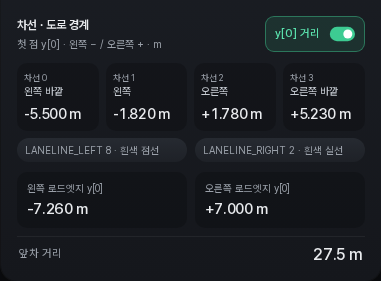
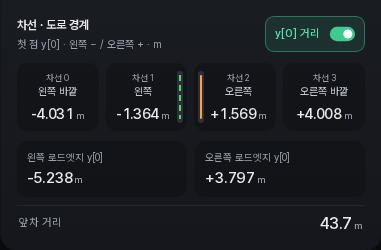
Release 1.3.12: lane values clear of the line samples, lanes/road docs captures with dark mode
The lane line sample sits 4..10 px inside the 차선 1 / 차선 2 cards and was sized for 100.0%; y[0] figures such as
-1.888 m reached it (overlap at 320/360 px, 0.6-2.3 px elsewhere). The sample's side keeps a 14 px inset and the panel's
lengths carry a small muted unit; info_panels checks a 4 px clearance with -15.555 at every width.

Docs: the boundaries-probability/-distance captures come from docs_video_shots.cjs (panel only, real logs; dark at the
night drive's 28 s where the lines are green dashed and orange solid) and the README's y[0] image has a dark source.

diff --git a/roadviewer/app/web/index.html b/roadviewer/app/web/index.html
@@ -1,5 +1,5 @@
 <!doctype html>
-<html lang="ko"><head><meta charset="utf-8"><meta name="color-scheme" content="dark light"><script src="../../assets/theme.js?v=1.3.11"></script><style>:where(html,body){background:#0C0D10;color-scheme:dark}@media(prefers-color-scheme:light){:where(html:not([data-theme=dark]),html:not([data-theme=dark]) body){background:#EEF0F3;color-scheme:light}}:where(html[data-theme=light],html[data-theme=light] body){background:#EEF0F3;color-scheme:light}</style><meta name="viewport" content="width=device-width,initial-scale=1"><title>Road Viewer · Home Assistant</title><link rel="stylesheet" href="../../assets/style.css?v=1.3.11"><link rel="stylesheet" href="../../assets/motion.css?v=1.3.11"><link rel="expect" href="#rvReady" blocking="render"><link rel="icon" type="image/svg+xml" href="../../assets/icon.svg?v=1.3.11"></head>
+<html lang="ko"><head><meta charset="utf-8"><meta name="color-scheme" content="dark light"><script src="../../assets/theme.js?v=1.3.12"></script><style>:where(html,body){background:#0C0D10;color-scheme:dark}@media(prefers-color-scheme:light){:where(html:not([data-theme=dark]),html:not([data-theme=dark]) body){background:#EEF0F3;color-scheme:light}}:where(html[data-theme=light],html[data-theme=light] body){background:#EEF0F3;color-scheme:light}</style><meta name="viewport" content="width=device-width,initial-scale=1"><title>Road Viewer · Home Assistant</title><link rel="stylesheet" href="../../assets/style.css?v=1.3.12"><link rel="stylesheet" href="../../assets/motion.css?v=1.3.12"><link rel="expect" href="#rvReady" blocking="render"><link rel="icon" type="image/svg+xml" href="../../assets/icon.svg?v=1.3.12"></head>
 <body class="replay-page replay-loading">
 <header class="app-bar"><div class="app-bar-inner">
 <a class="back" href="../../" data-ripple-now aria-label="로그 목록" title="로그 목록"><svg viewBox="0 0 24 24" width="18" height="18" fill="none" stroke="currentColor" stroke-width="2" stroke-linecap="round" stroke-linejoin="round" aria-hidden="true"><path d="M15 5 8 12l7 7"/></svg><span class="back-label">로그</span></a>
@@ -9,7 +9,7 @@
 
 <button id="pinLog" class="icon-button" type="button" data-no-ripple data-fill title="구간 고정" aria-label="구간 고정" aria-pressed="false" disabled><svg viewBox="0 0 24 24" width="18" height="18" fill="none" stroke="currentColor" stroke-width="1.7" stroke-linecap="round" stroke-linejoin="round" aria-hidden="true"><path class="pin-head" d="M8 3h8l-1 7 4 4v2H5v-2l4-4z"/><path d="M12 16v6"/></svg></button>
 <details id="viewMenu" class="replay-menu view-menu"><summary data-no-ripple data-fill title="보기"><svg viewBox="0 0 24 24" width="16" height="16" fill="none" stroke="currentColor" stroke-width="1.8" aria-hidden="true"><rect x="3" y="4" width="18" height="16" rx="2"/><path d="M14 4v16"/></svg><span>보기</span></summary><div id="viewMenuPanel" class="replay-download-menu replay-menu-panel"><div id="viewOptions" class="menu-view" role="group" aria-label="보기"><span class="menu-section">보기</span><button id="splitView" class="menu-toggle" type="button" aria-pressed="false" aria-controls="replayViews"><svg viewBox="0 0 24 24" width="18" height="18" aria-hidden="true"><rect x="3" y="5" width="18" height="14" rx="3"/><path d="M12 5v14"/></svg><span>좌우 분할</span><span class="toggle-track" aria-hidden="true"></span></button><button id="stackView" class="menu-toggle" type="button" aria-pressed="false" aria-controls="replayViews"><svg viewBox="0 0 24 24" width="18" height="18" aria-hidden="true"><rect x="3" y="5" width="18" height="14" rx="3"/><path d="M3 12h18"/></svg><span>상하 분리</span><span class="toggle-track" aria-hidden="true"></span></button><button id="layoutWidthButton" class="menu-toggle" type="button" aria-haspopup="dialog" aria-controls="layoutWidthDialog"><svg viewBox="0 0 24 24" width="18" height="18" aria-hidden="true"><path d="M3 12h18M7 8l-4 4 4 4M17 8l4 4-4 4"/></svg><span>화면 폭…</span></button><span class="menu-section menu-section-play">재생</span><button id="autoNext" class="menu-toggle" type="button" aria-pressed="false" title="구간이 끝나면 같은 주행의 다음 재생 가능한 구간을 이어서 재생합니다."><svg viewBox="0 0 24 24" width="18" height="18" aria-hidden="true"><path d="M5 6.5v11l8.5-5.5z"/><path d="M13.5 6.5v11l5.5-5.5z"/></svg><span>끝나면 다음 구간 재생</span><span class="toggle-track" aria-hidden="true"></span></button><button id="pauseOnJump" class="menu-toggle" type="button" aria-pressed="true" title="재생 중에 다른 구간으로 옮기면 멈춥니다. 끄면 옮긴 구간에서 이어서 재생합니다."><svg viewBox="0 0 24 24" width="18" height="18" aria-hidden="true"><path d="M9 6v12M15 6v12"/></svg><span>구간을 옮기면 일시정지</span><span class="toggle-track" aria-hidden="true"></span></button></div></div></details>
-<details id="replayDownload" class="replay-download replay-menu"><summary data-no-ripple data-fill title="추가 작업" aria-label="추가 작업"><svg class="icon-more" viewBox="0 0 24 24" width="18" height="18" aria-hidden="true"><circle class="more-dot more-dot-l" cx="5" cy="12" r="1.8"/><circle class="more-dot" cx="12" cy="12" r="1.8"/><circle class="more-dot more-dot-r" cx="19" cy="12" r="1.8"/><g class="more-x"><line x1="12" y1="12" x2="4.15" y2="4.15" pathLength="1"/><line x1="12" y1="12" x2="19.85" y2="19.85" pathLength="1"/><line x1="12" y1="12" x2="19.85" y2="4.15" pathLength="1"/><line x1="12" y1="12" x2="4.15" y2="19.85" pathLength="1"/></g></svg></summary><div id="replayDownloadMenu" class="replay-download-menu"><button id="cameraInfoButton" type="button" aria-haspopup="dialog" aria-controls="cameraInfoDialog">카메라 설치 정보</button><p id="details" class="menu-info">—</p><p class="menu-info menu-version">Road Viewer <span class="app-version">v1.3.11</span></p></div></details>
+<details id="replayDownload" class="replay-download replay-menu"><summary data-no-ripple data-fill title="추가 작업" aria-label="추가 작업"><svg class="icon-more" viewBox="0 0 24 24" width="18" height="18" aria-hidden="true"><circle class="more-dot more-dot-l" cx="5" cy="12" r="1.8"/><circle class="more-dot" cx="12" cy="12" r="1.8"/><circle class="more-dot more-dot-r" cx="19" cy="12" r="1.8"/><g class="more-x"><line x1="12" y1="12" x2="4.15" y2="4.15" pathLength="1"/><line x1="12" y1="12" x2="19.85" y2="19.85" pathLength="1"/><line x1="12" y1="12" x2="19.85" y2="4.15" pathLength="1"/><line x1="12" y1="12" x2="4.15" y2="19.85" pathLength="1"/></g></svg></summary><div id="replayDownloadMenu" class="replay-download-menu"><button id="cameraInfoButton" type="button" aria-haspopup="dialog" aria-controls="cameraInfoDialog">카메라 설치 정보</button><p id="details" class="menu-info">—</p><p class="menu-info menu-version">Road Viewer <span class="app-version">v1.3.12</span></p></div></details>
 </nav>
 </div></header>
 <main>
@@ -71,4 +71,4 @@
 <section class="overlay-settings-section"><h3>도로와 경로</h3><div class="set-list"><label title="계기판 송신값의 거리선·깜빡이·차로 강조"><input id="ccncRoad" type="checkbox" checked>계기판 도로 표시</label><label title="계기판으로 보낸 LANELINE_LEFT·RIGHT 값대로 자기 차로 좌우 차선을 표시합니다. 흰색·주황·녹색·회색과 실선·점선, 숨김(흐린 점선)을 구분하며, 송신값이 없거나 문서화되지 않은 값이면 기본 차선 표시를 씁니다."><input id="laneMarking" type="checkbox" checked>계기판 차선 색·종류</label><label title="오픈파일럿이 계기판으로 보낸 차간 거리 설정(1~4단계)을 영상 왼쪽 아래에 4칸으로 표시합니다. 이 값이 없는 로그(예전에 변환한 로그)에서는 표시하지 않습니다."><input id="gapLevel" type="checkbox" checked>차간 거리 단계</label><div class="minimap-tone lead-mark" title="계기판 TARGET 거리(앞차거리)를 경로 위에 직선 또는 앞차를 감싸는 호로 그립니다. 끄면 감속 빛도 그리지 않습니다."><span id="leadMarkLabel">앞차거리</span><div id="leadMark" class="view-switch view-switch-3" role="group" aria-labelledby="leadMarkLabel"><button type="button" data-mark="off" aria-pressed="false">끄기</button><button type="button" data-mark="line" aria-pressed="false">선</button><button type="button" data-mark="arc" aria-pressed="true">호</button></div></div><label title="플래너가 목표로 하는 차간 거리(longitudinalPlan.desiredDistance)를 앞차거리와 함께 경로 양옆의 주황 빛으로 표시합니다. 앞차가 목표의 85%보다 가까우면 대신 앞차거리가 빨갛게 바뀝니다. 예전에 변환한 로그에는 값이 없습니다."><input id="gapTarget" type="checkbox" checked>목표 차간 거리</label><label title="TARGET 거리선은 유지하고 라벨만 표시하거나 숨깁니다."><input id="targetLabels" type="checkbox" checked>TARGET 라벨</label><label class="box-opacity" for="modelPathWidth">경로 차폭 <input id="modelPathWidth" type="range" min="100" max="300" step="1" value="186"><output id="modelPathWidthValue" for="modelPathWidth">1.86 m</output><button id="modelPathWidthReset" title="기본값 1.86 m" aria-label="기본값 1.86 m" class="slider-reset" type="button">기본값 1.86 m</button></label></div><p class="camera-info-note sec-help">실제 차로와 모델 경로·TARGET 거리선을 구분해 표시합니다.</p></section>
 <section class="overlay-settings-section"><h3>사각지대 · BSD</h3><div class="set-list"><label><input id="bsdWalls" type="checkbox" checked>사각지대 벽 표시</label><label title="사각지대 벽은 유지하고 라벨만 표시하거나 숨깁니다."><input id="bsdLabels" type="checkbox" checked>BSD 라벨</label><label class="box-opacity" for="bsdHeight">벽 높이 <input id="bsdHeight" type="range" min="0" max="300" step="5" value="80"><output id="bsdHeightValue" for="bsdHeight">0.80 m</output><button id="bsdHeightReset" title="기본값 0.80 m" aria-label="기본값 0.80 m" class="slider-reset" type="button">기본값 0.80 m</button></label></div><p class="camera-info-note sec-help">사각지대 감지 신호를 좌우 벽으로 표시합니다. 길이는 40 m로 고정입니다.</p></section>
 <section class="overlay-settings-section"><h3>차량 위치 표식</h3><div class="set-list"><button id="overlayHeight" title="설정한 높이로 차량 위치 표식을 올리고 바닥까지 연결합니다." class="view-toggle" type="button" aria-pressed="true"><span>차량 높이 조정</span><span class="toggle-track" aria-hidden="true"></span></button><div class="layout-width"><label for="overlayHeightRange">지면에서 올릴 높이</label><output id="overlayHeightValue" for="overlayHeightRange"></output><input id="overlayHeightRange" type="range" min="0" max="200" step="1" value="60" aria-describedby="overlayHeightHelp"><div class="layout-width-limits"><span>0 cm</span><span>200 cm</span></div><button id="overlayHeightReset" title="기본값 60 cm" aria-label="기본값 60 cm" type="button">기본값 60 cm</button></div></div><p id="overlayHeightHelp" class="camera-info-note sec-help">모델 경로·차선·로드엣지에 적용됩니다. 3D 박스에는 적용되지 않습니다.</p></section><section class="overlay-settings-section"><h3>지도</h3><div class="set-list"><label title="영상이 있는 구간에서 영상 오른쪽 위, 속도와 조향 표시 아래에 현재 구간의 경로를 작은 지도로 표시합니다."><input id="videoMiniMap" type="checkbox" aria-describedby="videoMiniMapHelp">영상 위 작은 지도</label><div class="minimap-tone sub"><span id="videoMiniMapToneLabel">작은 지도 색상</span><div id="videoMiniMapTone" class="view-switch view-switch-3" role="group" aria-labelledby="videoMiniMapToneLabel"><button type="button" data-tone="auto" aria-pressed="true">자동</button><button type="button" data-tone="light" aria-pressed="false">라이트</button><button type="button" data-tone="dark" aria-pressed="false">다크</button></div></div><label class="sub" title="작은 지도에서 지명·도로 이름·아이콘·화살표를 숨깁니다. 지도 색은 그대로입니다."><input id="videoMiniMapPlain" type="checkbox">작은 지도 글자 숨기기</label><label class="sub" title="작은 지도를 차분한 회색 지도로 바꾸고 3D 건물·아이콘을 뺍니다."><input id="videoMiniMapGrey" type="checkbox">작은 지도 회색으로</label></div><p id="videoMiniMapHelp" class="camera-info-note sec-help">GPS 경로와 영상이 있는 구간에서 표시하고, 누르면 커집니다.</p></section></div></dialog>
-<script src="../../assets/disclosure.js?v=1.3.11"></script><script src="../../assets/element-motion.js?v=1.3.11"></script><script src="../../assets/ripple.js?v=1.3.11"></script><script src="../../assets/recording-name.js?v=1.3.11"></script><script src="../../assets/download-dialog.js?v=1.3.11"></script><script src="../../assets/tags.js?v=1.3.11"></script><script src="../../assets/app.js?v=1.3.11"></script><script src="../../assets/choices.js?v=1.3.11"></script><script src="../../assets/video-overlay.js?v=1.3.11"></script><script src="../../assets/camera-info.js?v=1.3.11"></script><script src="../../assets/telemetry.js?v=1.3.11"></script><script src="../../assets/bookmarks.js?v=1.3.11"></script><script src="../../assets/maps.js?v=1.3.11"></script><span id="rvReady" hidden></span></body></html>
+<script src="../../assets/disclosure.js?v=1.3.12"></script><script src="../../assets/element-motion.js?v=1.3.12"></script><script src="../../assets/ripple.js?v=1.3.12"></script><script src="../../assets/recording-name.js?v=1.3.12"></script><script src="../../assets/download-dialog.js?v=1.3.12"></script><script src="../../assets/tags.js?v=1.3.12"></script><script src="../../assets/app.js?v=1.3.12"></script><script src="../../assets/choices.js?v=1.3.12"></script><script src="../../assets/video-overlay.js?v=1.3.12"></script><script src="../../assets/camera-info.js?v=1.3.12"></script><script src="../../assets/telemetry.js?v=1.3.12"></script><script src="../../assets/bookmarks.js?v=1.3.12"></script><script src="../../assets/maps.js?v=1.3.12"></script><span id="rvReady" hidden></span></body></html>

diff --git a/roadviewer/app/web/library.html b/roadviewer/app/web/library.html
@@ -1,5 +1,5 @@
-<!doctype html><html lang="ko"><head><meta charset="utf-8"><meta name="color-scheme" content="dark light"><script src="assets/theme.js?v=1.3.11"></script><style>:where(html,body){background:#0C0D10;color-scheme:dark}@media(prefers-color-scheme:light){:where(html:not([data-theme=dark]),html:not([data-theme=dark]) body){background:#EEF0F3;color-scheme:light}}:where(html[data-theme=light],html[data-theme=light] body){background:#EEF0F3;color-scheme:light}</style><meta name="viewport" content="width=device-width,initial-scale=1"><title>Road Viewer · Home Assistant</title><link rel="stylesheet" href="assets/style.css?v=1.3.11"><link rel="stylesheet" href="assets/library.css?v=1.3.11"><link rel="stylesheet" href="assets/motion.css?v=1.3.11"><link rel="icon" type="image/svg+xml" href="assets/icon.svg?v=1.3.11"></head><body class="library-page">
-<header class="lib-appbar"><div class="lib-appbar-inner"><div class="app-brand"><img class="app-icon" src="assets/icon.svg?v=1.3.11" alt=""><h1>Road Viewer</h1></div>
+<!doctype html><html lang="ko"><head><meta charset="utf-8"><meta name="color-scheme" content="dark light"><script src="assets/theme.js?v=1.3.12"></script><style>:where(html,body){background:#0C0D10;color-scheme:dark}@media(prefers-color-scheme:light){:where(html:not([data-theme=dark]),html:not([data-theme=dark]) body){background:#EEF0F3;color-scheme:light}}:where(html[data-theme=light],html[data-theme=light] body){background:#EEF0F3;color-scheme:light}</style><meta name="viewport" content="width=device-width,initial-scale=1"><title>Road Viewer · Home Assistant</title><link rel="stylesheet" href="assets/style.css?v=1.3.12"><link rel="stylesheet" href="assets/library.css?v=1.3.12"><link rel="stylesheet" href="assets/motion.css?v=1.3.12"><link rel="icon" type="image/svg+xml" href="assets/icon.svg?v=1.3.12"></head><body class="library-page">
+<header class="lib-appbar"><div class="lib-appbar-inner"><div class="app-brand"><img class="app-icon" src="assets/icon.svg?v=1.3.12" alt=""><h1>Road Viewer</h1></div>
 <nav class="lib-tabs" role="tablist" aria-label="주요 화면"><button id="tab-logs" class="lib-tab" role="tab" type="button" data-tab="logs" aria-controls="panel-logs" aria-selected="true"><svg width="22" height="22" viewBox="0 0 24 24" fill="none" stroke="currentColor" stroke-width="2" stroke-linecap="round" stroke-linejoin="round" aria-hidden="true"><rect x="3" y="5" width="18" height="14" rx="3"/><path d="m10 9 5 3-5 3Z"/></svg><span>로그</span></button><button id="tab-upload" class="lib-tab" role="tab" type="button" data-tab="upload" aria-controls="panel-upload" aria-selected="false" tabindex="-1"><svg width="22" height="22" viewBox="0 0 24 24" fill="none" stroke="currentColor" stroke-width="2" stroke-linecap="round" stroke-linejoin="round" aria-hidden="true"><path d="M12 16V4M7 9l5-5 5 5M4 20h16"/></svg><span>업로드</span></button><button id="tab-storage" class="lib-tab" role="tab" type="button" data-tab="storage" aria-controls="storageSettings" aria-selected="false" tabindex="-1"><svg width="22" height="22" viewBox="0 0 24 24" fill="none" stroke="currentColor" stroke-width="2" stroke-linecap="round" stroke-linejoin="round" aria-hidden="true"><ellipse cx="12" cy="6" rx="8" ry="3"/><path d="M4 6v12c0 1.7 3.6 3 8 3s8-1.3 8-3V6M4 12c0 1.7 3.6 3 8 3s8-1.3 8-3"/></svg><span>저장공간</span></button><button id="tab-devices" class="lib-tab" role="tab" type="button" data-tab="devices" aria-controls="deviceSettings" aria-selected="false" tabindex="-1"><svg width="22" height="22" viewBox="0 0 24 24" fill="none" stroke="currentColor" stroke-width="2" stroke-linecap="round" stroke-linejoin="round" aria-hidden="true"><rect x="6" y="2" width="12" height="20" rx="2.5"/><path d="M11 18h2"/></svg><span>장치</span></button><button id="tab-settings" class="lib-tab" role="tab" type="button" data-tab="settings" aria-controls="panel-settings" aria-selected="false" tabindex="-1"><svg width="22" height="22" viewBox="0 0 24 24" fill="none" stroke="currentColor" stroke-width="2" stroke-linecap="round" stroke-linejoin="round" aria-hidden="true"><circle cx="12" cy="12" r="3"/><path d="M12 2v3M12 19v3M2 12h3M19 12h3M4.9 4.9l2.1 2.1M17 17l2.1 2.1M4.9 19.1 7 17M17 7l2.1-2.1"/></svg><span>설정</span></button></nav>
 <div class="lib-status"><button id="uploadPill" class="upload-pill glass-panel" type="button" data-goto-tab="upload" hidden><span class="upload-pill-ring" aria-hidden="true"></span><span id="uploadPillText">업로드 중</span></button><button id="summary" class="lib-meter" type="button" data-goto-tab="storage" title="Road Viewer 원본·변환·업로드 임시 파일의 총 파일 용량" aria-label="로컬 저장공간 확인 중"><span class="lib-meter-label" aria-hidden="true">로컬</span><span class="lib-meter-bar" aria-hidden="true"><span id="headerMeterFill"></span></span><span id="headerStorageText" aria-hidden="true">—</span></button><span id="headerArchive" class="lib-archive" hidden><i aria-hidden="true"></i><span id="headerArchiveText"></span></span></div></div></header>
 <main>
@@ -125,7 +125,7 @@
 <div class="usage-guide-body"><div><h4>처리 상태</h4><dl class="status-guide"><div><dt>미변환</dt><dd>로그와 보관 영상을 유지한 상태입니다. 변환하면 재생할 수 있습니다.</dd></div><div><dt>대기 중</dt><dd>변환 순서를 기다립니다.</dd></div><div><dt>처리 중</dt><dd>로그 분석 또는 영상 변환을 진행합니다.</dd></div><div><dt>재생 가능</dt><dd>변환이 완료되어 재생할 수 있습니다.</dd></div><div><dt>변환 실패</dt><dd>변환 버튼으로 다시 시도할 수 있습니다.</dd></div></dl></div><div><h4>로그 작업</h4><p class="action-guide">재생·변환 버튼 옆 펼침 메뉴(⌄)에서 선택합니다. 미변환 항목에는 제거가 표시되지 않으며, 처리 중에는 제거할 수 없습니다.</p><dl class="action-guide-grid"><div><dt>변환</dt><dd>재생용 데이터를 생성합니다.</dd></div><div><dt>제거</dt><dd>대기 중인 항목은 변환 예약을 취소합니다. 분석·그래프와 원본으로 다시 만들 수 있는 MP4를 삭제하며, 원본 로그·영상 및 원본 없이 보관하는 MP4는 유지합니다.</dd></div><div><dt>다운로드</dt><dd>팝업에서 로그와 카메라 영상, MP4·원본 형식(HEVC·TS)을 골라 받습니다. 선택한 파일이 하나면 그대로, 여러 개면 ZIP으로 받고, 각 파일 옆의 받기로도 개별 다운로드할 수 있습니다. 없는 카메라는 제외합니다. 원본 형식은 재압축 없이 다시 만들며 화질은 같지만 업로드한 파일과 바이트까지 같지는 않습니다.</dd></div><div><dt>완전 삭제</dt><dd>원본과 변환 데이터를 모두 삭제합니다.</dd></div></dl><p class="action-guide">수동으로 제거한 항목은 자동으로 다시 변환되지 않습니다. 재시작 후에도 직접 변환해야 합니다.</p></div>
 <div class="guide-notes"><div><h4>로그 이름과 복사</h4><p>첫 식별자의 앞자리 0과 뒤쪽 식별자를 생략해 짧게 표시합니다. <code>00000395--0d0eda17c5--7</code>은 <code>395 / 구간 7</code>로 보입니다. 이름 옆 복사 버튼은 생략하지 않은 전체 이름을 확장자 없이 복사합니다.</p></div><div><h4>구간 고정</h4><p>재생·변환 옆 핀 아이콘은 해당 구간만 자동 삭제에서 보호합니다. 다시 누르면 해제하며, 재시작 후에도 유지됩니다. 이후 업로드한 다른 구간에는 적용되지 않습니다. <b>일괄 제거·완전 삭제는 기본적으로 고정한 구간을 제외합니다. 로그 관리에서 ‘고정 항목도 삭제’를 켜면 포함됩니다.</b> 개별 로그 메뉴에서는 직접 제거·완전 삭제할 수 있습니다.</p><p>기존 주행 단위 고정은 저장된 각 구간의 고정으로 이전됩니다.</p></div></div>
 </div></details>
-<p class="app-version-line">Road Viewer <span class="app-version">v1.3.11</span> · Home Assistant 애드온</p>
+<p class="app-version-line">Road Viewer <span class="app-version">v1.3.12</span> · Home Assistant 애드온</p>
 </section>
 <footer>Home Assistant 연결을 통해 접근합니다. 업로드한 원본과 변환 데이터는 앱 저장소에 보관됩니다.</footer></main>
 <dialog id="archiveAllDialog" class="archive-all-dialog" aria-labelledby="archiveAllTitle" aria-describedby="archiveAllDescription">
@@ -147,4 +147,4 @@
 </div>
 <div class="pair-footer"><button id="pairRenew" type="button"><svg width="16" height="16" viewBox="0 0 24 24" fill="none" stroke="currentColor" stroke-width="2" stroke-linecap="round" stroke-linejoin="round" aria-hidden="true"><path d="M19.79 16.5A9 9 0 1 1 12 3c2.52 0 4.93 1 6.74 2.74L21 8"/><path d="M21 3v5h-5"/></svg><span>새 코드 발급</span></button><button id="pairClose" type="button">취소</button></div>
 </dialog>
-<script src="assets/disclosure.js?v=1.3.11"></script><script src="assets/element-motion.js?v=1.3.11"></script><script src="assets/ripple.js?v=1.3.11"></script><script src="assets/recording-name.js?v=1.3.11"></script><script src="assets/download-dialog.js?v=1.3.11"></script><script src="assets/tags.js?v=1.3.11"></script><script src="assets/library.js?v=1.3.11"></script><script src="assets/choices.js?v=1.3.11"></script><script src="assets/bulk.js?v=1.3.11"></script><script src="assets/storage-devices.js?v=1.3.11"></script><script src="assets/log-transfer.js?v=1.3.11"></script><script src="assets/maps.js?v=1.3.11"></script></body></html>
+<script src="assets/disclosure.js?v=1.3.12"></script><script src="assets/element-motion.js?v=1.3.12"></script><script src="assets/ripple.js?v=1.3.12"></script><script src="assets/recording-name.js?v=1.3.12"></script><script src="assets/download-dialog.js?v=1.3.12"></script><script src="assets/tags.js?v=1.3.12"></script><script src="assets/library.js?v=1.3.12"></script><script src="assets/choices.js?v=1.3.12"></script><script src="assets/bulk.js?v=1.3.12"></script><script src="assets/storage-devices.js?v=1.3.12"></script><script src="assets/log-transfer.js?v=1.3.12"></script><script src="assets/maps.js?v=1.3.12"></script></body></html>

diff --git a/roadviewer/app/web/style.css b/roadviewer/app/web/style.css
@@ -1,4 +1,4 @@
-@font-face{font-family:"Pretendard Variable";src:url("fonts/PretendardVariable-1.3.9.woff2?v=1.3.11") format("woff2");font-style:normal;font-weight:45 920;font-display:swap}
+@font-face{font-family:"Pretendard Variable";src:url("fonts/PretendardVariable-1.3.9.woff2?v=1.3.12") format("woff2");font-style:normal;font-weight:45 920;font-display:swap}
 /* Style A tokens: dark by default; light by the 화면 모드 setting (theme.js sets data-theme) or the system preference. */
 :root{color-scheme:dark;--bg:#0C0D10;--page:radial-gradient(120% 60% at 50% 0%,#171A20 0%,#0C0D10 55%);--text:#E9EBEE;--text-2:#C5CAD1;--muted:#9AA0A9;--line:rgba(255,255,255,.06);--line-strong:rgba(255,255,255,.12);--surface:linear-gradient(180deg,#1A1D23 0%,#15171C 100%);--surface-shadow:inset 0 1px 0 rgba(255,255,255,.06),0 0 0 1px rgba(255,255,255,.04),0 12px 32px rgba(0,0,0,.45);--surface-outline:0 0 0 1px rgba(255,255,255,.04),0 12px 32px rgba(0,0,0,.45);--surface-highlight:inset 0 1px 0 rgba(255,255,255,.06);--panel:#17191E;--raised:linear-gradient(180deg,#262A31,#1E2127);--raised-hover:linear-gradient(180deg,#2D3139,#23262D);--raised-shadow:inset 0 1px 0 rgba(255,255,255,.08),0 0 0 1px rgba(0,0,0,.5),0 2px 6px rgba(0,0,0,.4);--control-line:transparent;--track:#111317;--track-shadow:inset 0 1px 3px rgba(0,0,0,.6),0 0 0 1px rgba(255,255,255,.04);--well:rgba(0,0,0,.2);--fold-shade:rgba(0,0,0,.6);--fold-edge:rgba(255,255,255,.05);--hover:rgba(255,255,255,.05);--field:#111317;--field-shadow:inset 0 1px 3px rgba(0,0,0,.6),0 0 0 1px rgba(255,255,255,.05);--pop:#1B1E24;--pop-shadow:inset 0 1px 0 rgba(255,255,255,.06),0 0 0 1px rgba(255,255,255,.07),0 18px 50px rgba(0,0,0,.55);--backdrop:rgba(4,5,7,.62);--accent:#3DCB92;--accent-text:#5BE3AE;--tab-on:#5BE3AE;--tab-on-icon:#5BE3AE;--accent-glow:0 0 8px rgba(61,203,146,.6);--accent-soft:rgba(61,203,146,.13);--accent-line:rgba(61,203,146,.45);--primary-bg:linear-gradient(180deg,#66E8B5,#3DCB92);--primary-text:#04241A;--primary-shadow:inset 0 1px 0 rgba(255,255,255,.45),0 0 0 1px rgba(61,203,146,.6),0 6px 18px rgba(61,203,146,.26);--warn:#F5C451;--warn-soft:rgba(245,196,81,.12);--danger:#FF7A6B;--danger-soft:rgba(255,122,107,.12);--takeover:#FF9F5A;--drive:#7FB4FF;--nas:#B79CFF;--unconverted:#4A4F58;--ready:#3DCB92;--warn-text:#F5C451;--warn-edge:none;--danger-text:#FF7A6B;--takeover-text:#FF9F5A;--drive-text:#7FB4FF;--nas-text:#B79CFF;--pin:#F5C451;--pin-soft:rgba(245,196,81,.12);--switch-off:#3A3F48;--header-bg:rgba(14,15,18,.78);--chart-grid:rgba(255,255,255,.04);--canvas-bg:#0f1115;--chart-1:#57d9b0;--chart-2:#bda0ff;--chart-3:#ffac70;--chart-4:#78c7ff;--map-grid:rgba(255,255,255,.035);--map-asphalt:rgba(180,193,207,.085);--map-label:#20252C;--map-text:#9AA0A9;--map-rear:rgba(255,255,255,.035);--map-axis:#6B717B;--map-guide:#6B717B;--map-ego:#E9EBEE;--map-warn:#F5C451;--map-lane:#57d9b0;--map-lane-fill:rgba(87,217,176,.065);--map-edge:#C88F87;--map-path:#5BE3AE;--map-lead:#81b5ff;--map-lead-text:#c5daff;--map-selected:#eee7bc;--map-raw:#78e9fa;--map-ccnc:#4aaaff;--map-ccnc-ff:#8deeff;--map-center:#d09aff;--map-left:#ffda76;--map-right:#ff91b5;--map-white:#eef3f8;--map-gray:#8b97a6;--map-orange:#ff9f43;--map-green:#4cd964;--map-band:#62ed9e;--map-blue:#55b9ff;--map-red:#ff6175;--map-target:#7be5ff;--tag-mint:#65dfb9;--tag-blue:#8cbcff;--tag-violet:#c2a1ff;--tag-amber:#f2c16f;--tag-rose:#f2a4bd;--tag-slate:#acbbcc;--tag-red:#ff8c91;--tag-coral:#ffad92;--tag-lime:#b9df78;--tag-yellow:#f5df7a;--tag-cyan:#75d9ef;--tag-indigo:#9faaff;
  /* Legacy names stay as aliases while rules migrate. */
@@ -743,6 +743,9 @@ select,.rv-choice-trigger{font-weight:500}
 .boundary-summary .lane-readouts .boundary-lane{position:relative;text-align:center}
 .lane-line-mark{position:absolute;top:8px;bottom:8px;height:auto;width:6px;border-radius:3px;background:#2b3038}.lane-line-mark::before{content:"";position:absolute;top:4px;bottom:4px;left:2px;width:2px;border-radius:1px;background:var(--lane)}.lane-line-mark[data-type=dashed]::before{border-radius:0;background:repeating-linear-gradient(180deg,var(--lane) 0 6px,transparent 6px 10px)}
 #laneLineLeft{right:4px}#laneLineRight{left:4px}
+/* The card's text keeps clear of its line sample (4..10px from the edge) on that side only. */
+.boundary-summary .boundary-lane:has(#laneLineLeft:not([hidden])){padding-right:14px}.boundary-summary .boundary-lane:has(#laneLineRight:not([hidden])){padding-left:14px}
+.boundary-summary strong .unit{margin-left:2px;font-size:.62em;font-weight:500;letter-spacing:0;color:var(--muted)}
 
 .boundary-summary .boundary-edge{border:0;box-shadow:none;border-radius:10px}
 .replay-page .telemetry-toolbar{flex-wrap:nowrap;gap:3px}

diff --git a/roadviewer/app/web/shell.html b/roadviewer/app/web/shell.html
@@ -1,2 +1,2 @@
 <!doctype html>
-<html lang="ko"><head><meta charset="utf-8"><base id="pageBase"><meta name="viewport" content="width=device-width,initial-scale=1"><meta name="color-scheme" content="dark light"><script src="__ASSETS__theme.js?v=__VERSION__"></script><title>Road Viewer · Home Assistant</title><style>:where(html,body){background:#0C0D10;color-scheme:dark}@media(prefers-color-scheme:light){:where(html:not([data-theme=dark]),html:not([data-theme=dark]) body){background:#EEF0F3;color-scheme:light}}:where(html[data-theme=light],html[data-theme=light] body){background:#EEF0F3;color-scheme:light}html,body{margin:0}:where(body){color:#E9EBEE}:where(html[data-theme=light] body){color:#14171C}@media(prefers-color-scheme:light){:where(html:not([data-theme=dark]) body){color:#14171C}}#navigationStatus{position:fixed;top:8px;left:50%;transform:translateX(-50%);z-index:10000;max-width:90%;padding:10px 16px;border:0;border-radius:12px;background:var(--pop,#1B1E24);color:var(--text,#E9EBEE);box-shadow:var(--pop-shadow,0 0 0 1px rgba(255,255,255,.08),0 12px 32px rgba(0,0,0,.45));font:14px "Pretendard Variable",system-ui}#navigationStatus:empty{display:none}</style><link rel="preload" href="__ASSETS__fonts/PretendardVariable-1.3.9.woff2?v=1.3.11" as="font" type="font/woff2" crossorigin><link rel="stylesheet" href="__ASSETS__style.css?v=__VERSION__"><link id="libraryStyle" rel="stylesheet" href="__ASSETS__library.css?v=__VERSION__"><link rel="stylesheet" href="__ASSETS__motion.css?v=__VERSION__"><link rel="icon" type="image/svg+xml" href="__ASSETS__icon.svg?v=__VERSION__"></head><body><div id="navigationStatus" role="status"></div><div id="pageHost"></div><script src="__ASSETS__element-motion.js?v=__VERSION__"></script><script src="__ASSETS__ripple.js?v=__VERSION__"></script><script type="module" src="__ASSETS__navigation.js?v=__VERSION__"></script></body></html>
+<html lang="ko"><head><meta charset="utf-8"><base id="pageBase"><meta name="viewport" content="width=device-width,initial-scale=1"><meta name="color-scheme" content="dark light"><script src="__ASSETS__theme.js?v=__VERSION__"></script><title>Road Viewer · Home Assistant</title><style>:where(html,body){background:#0C0D10;color-scheme:dark}@media(prefers-color-scheme:light){:where(html:not([data-theme=dark]),html:not([data-theme=dark]) body){background:#EEF0F3;color-scheme:light}}:where(html[data-theme=light],html[data-theme=light] body){background:#EEF0F3;color-scheme:light}html,body{margin:0}:where(body){color:#E9EBEE}:where(html[data-theme=light] body){color:#14171C}@media(prefers-color-scheme:light){:where(html:not([data-theme=dark]) body){color:#14171C}}#navigationStatus{position:fixed;top:8px;left:50%;transform:translateX(-50%);z-index:10000;max-width:90%;padding:10px 16px;border:0;border-radius:12px;background:var(--pop,#1B1E24);color:var(--text,#E9EBEE);box-shadow:var(--pop-shadow,0 0 0 1px rgba(255,255,255,.08),0 12px 32px rgba(0,0,0,.45));font:14px "Pretendard Variable",system-ui}#navigationStatus:empty{display:none}</style><link rel="preload" href="__ASSETS__fonts/PretendardVariable-1.3.9.woff2?v=1.3.12" as="font" type="font/woff2" crossorigin><link rel="stylesheet" href="__ASSETS__style.css?v=__VERSION__"><link id="libraryStyle" rel="stylesheet" href="__ASSETS__library.css?v=__VERSION__"><link rel="stylesheet" href="__ASSETS__motion.css?v=__VERSION__"><link rel="icon" type="image/svg+xml" href="__ASSETS__icon.svg?v=__VERSION__"></head><body><div id="navigationStatus" role="status"></div><div id="pageHost"></div><script src="__ASSETS__element-motion.js?v=__VERSION__"></script><script src="__ASSETS__ripple.js?v=__VERSION__"></script><script type="module" src="__ASSETS__navigation.js?v=__VERSION__"></script></body></html>

diff --git a/roadviewer/app/web/app.js b/roadviewer/app/web/app.js
@@ -938,20 +938,23 @@ function render(lazy){
  }
  const percent=n=>Number.isFinite(n)?(n*100).toFixed(1)+'%':'—';
  const distance=$('boundaryDistance').getAttribute('aria-pressed')==='true';
- const meters=value=>Number.isFinite(value)?(value>0?'+':'')+value.toFixed(3)+' m':'—';
- ['lane0','left','right','lane3'].forEach((id,i)=>{$(id).textContent=valid?(distance?meters(f.laneY0?.[i]):percent(f.lp[i])):'—'});
+ // Lengths in this panel: the figure with a small muted unit, so the longest lane y[0] (-15.555) fits beside the
+ // line sample and every card reads alike.
+ const length=(el,value,digits,signed)=>{if(!Number.isFinite(value)){el.textContent='—';return}
+  const unit=document.createElement('small');unit.className='unit';unit.textContent='m';el.replaceChildren((signed&&value>0?'+':'')+value.toFixed(digits),unit)};
+ ['lane0','left','right','lane3'].forEach((id,i)=>{if(valid&&distance)length($(id),f.laneY0?.[i],3,true);else $(id).textContent=valid?percent(f.lp[i]):'—'});
  // Cluster lane line type inside the own-lane cards: a short piece of the line (colour, solid/dashed) on the inner
  // edge of 차선 1 and 차선 2, so the two face each other like the lane. Hidden and undocumented codes draw nothing.
  [['laneLineLeft',1],['laneLineRight',2]].forEach(([id,i])=>{const code=valid?laneLineCode(f,i):undefined,style=LANE_LINE_CODES[code],el=$(id);el.hidden=!style||style.type==='hidden';if(el.hidden||el.dataset.code===String(code))return;
   el.dataset.code=code;el.dataset.type=style.type;el.style.setProperty('--lane',style.color);el.title=`${i===1?'왼쪽':'오른쪽'} 차선 · ${style.label} (${i===1?'LANELINE_LEFT':'LANELINE_RIGHT'} ${code})`;el.setAttribute('aria-label',`${i===1?'왼쪽':'오른쪽'} 차선 ${style.label}`)});
- ['edge0','edge1'].forEach((id,i)=>{$(id).textContent=valid?(distance?meters(f.edgeY0?.[i]):Number.isFinite(f.es[i])?f.es[i].toFixed(3)+' m':'—'):'—'});
+ ['edge0','edge1'].forEach((id,i)=>{if(valid)length($(id),distance?f.edgeY0?.[i]:f.es[i],3,distance);else $(id).textContent='—'});
  renderRadarValues(f,valid,rawTargets,rawVisible);
  renderSteering(f);
  $('egoSpeed').textContent=frameAvailable(f)&&Number.isFinite(f.egoSpeedKph)?f.egoSpeedKph.toFixed(1):'—';
  // Following-distance setting (frame.gap, 1..4): four cells over the video's bottom-left corner, as many lit as the level.
  {const chip=$('videoGap'),gap=frameAvailable(f)&&$('gapLevel').checked&&[1,2,3,4].includes(f.gap)?f.gap:0;chip.hidden=!gap;
   if(gap&&chip.dataset.level!==String(gap)){chip.dataset.level=gap;chip.title=`차간 거리 ${gap}단계 (4단계 중)`;chip.setAttribute('aria-label',chip.title);[...chip.children].forEach((cell,i)=>cell.classList.toggle('is-on',i<gap))}}
- $('lead').textContent=valid&&f.selected?f.selected.x.toFixed(1)+' m':'앞차 미감지';$('lead').title=f.selected?(f.selected.radar?'레이더 사용':'비전 기반'):'';$('frame').textContent=frameAvailable(f)?'FRAME '+f.id:'FRAME —';
+ if(valid&&f.selected)length($('lead'),f.selected.x,1,false);else $('lead').textContent='앞차 미감지';$('lead').title=f.selected?(f.selected.radar?'레이더 사용':'비전 기반'):'';$('frame').textContent=frameAvailable(f)?'FRAME '+f.id:'FRAME —';
 }
 // Folded details keep their rows untouched. Open tables retain row/cell identity across model frames.
 function updateValueRows(body,values,empty,columns,colors=[]){

diff --git a/docs/tools/docs_video_frames.py b/docs/tools/docs_video_frames.py
@@ -337,6 +337,8 @@ def main(scenes_file, logs, out):
     for folder in ('raw', 'check', 'reflection'):
         os.makedirs(os.path.join(out, folder), exist_ok=True)
     for name, scene in scenes.items():
+        if scene.get('frame'):  # borrows another scene's picture (a panel capture that does not show the video)
+            continue
         for camera, boxes in scene['cameras'].items():
             path = os.path.join(logs, scene['log'], camera + '.mp4')
             near = decode(path, scene['time'])

diff --git a/docs/images/README.en.md b/docs/images/README.en.md
@@ -41,7 +41,7 @@ The 10 files of the five captures with video (video with vehicle graphs, road vi
 | [roadviewer-bookmarks-timeline.png](roadviewer-bookmarks-timeline.png) | Floating playback bar with bookmark markers | 1.2.1 · fixtures |
 | [roadviewer-overlay-settings.png](roadviewer-overlay-settings.png) | Overlay settings popup (visible top part) | 1.2.1 · fixtures |
 | [roadviewer-camera-info.png](roadviewer-camera-info.png) | Camera installation information popup | 1.2.1 · fixtures |
-| [roadviewer-boundaries-probability.png](roadviewer-boundaries-probability.png) | Analysis panel **차선·도로** (lanes/road) tab: probability mode | 1.2.1 · fixtures |
-| [roadviewer-boundaries-distance.png](roadviewer-boundaries-distance.png) | Analysis panel **차선·도로** tab: y[0] lateral distance mode | 1.2.1 · fixtures |
+| [roadviewer-boundaries-probability.png](roadviewer-boundaries-probability.png) | Analysis panel **차선·도로** (lanes/road) tab: probability mode | 1.3.12 · real drive data (light: daytime drive, dark: night drive at 28 s, green dashed and orange solid lines) |
+| [roadviewer-boundaries-distance.png](roadviewer-boundaries-distance.png) | Analysis panel **차선·도로** tab: y[0] lateral distance mode | 1.3.12 · real drive data (same moments as the probability mode) |
 
 [Main guide](../../README.en.md) · [User guide](../../roadviewer/DOCS.en.md)

diff --git a/docs/device-api.md b/docs/device-api.md
@@ -21,7 +21,7 @@
 
 한국어 · [English](device-api.en.md)
 
-구현 기준: **Road Viewer 1.3.11**. 이 저장소는 서버와 웹 UI를 제공하며 호환 장치 업로더는 별도 저장소에서 관리합니다. 기존 브라우저 업로드와 Home Assistant Ingress는 유지됩니다.
+구현 기준: **Road Viewer 1.3.12**. 이 저장소는 서버와 웹 UI를 제공하며 호환 장치 업로더는 별도 저장소에서 관리합니다. 기존 브라우저 업로드와 Home Assistant Ingress는 유지됩니다.
 
 공유 데이터 디렉터리는 **Gunicorn worker 1개와 여러 thread**를 전제로 합니다. 같은 디렉터리를 사용하는 worker나 서버 복제본을 추가하지 마세요.
 
@@ -345,8 +345,8 @@ python3 -m venv /tmp/roadviewer-test-env
 실제 Nginx/Gunicorn TLS 경계를 검증하려면:
 
 ```bash
-docker build -t roadviewer:1.3.11 ./roadviewer
-docker run --rm -v "$PWD/tests:/tests:ro" --entrypoint python roadviewer:1.3.11 /tests/test_device_tls.py
+docker build -t roadviewer:1.3.12 ./roadviewer
+docker run --rm -v "$PWD/tests:/tests:ro" --entrypoint python roadviewer:1.3.12 /tests/test_device_tls.py
 ```
 
 컨테이너 안에서 임시 인증서로 통신하므로 포트 공개·공유기 변경은 필요하지 않습니다. 빌드는 네트워크가 필요하며 실제 DNS/NAT 검증을 대신하지 않습니다.

diff --git a/docs/images/README.md b/docs/images/README.md
@@ -41,7 +41,7 @@
 | [roadviewer-bookmarks-timeline.png](roadviewer-bookmarks-timeline.png) | 북마크 표시가 있는 하단 재생 바 | 1.2.1 · 예시 데이터 |
 | [roadviewer-overlay-settings.png](roadviewer-overlay-settings.png) | 겹쳐 보기 설정 팝업 (보이는 상단 영역) | 1.2.1 · 예시 데이터 |
 | [roadviewer-camera-info.png](roadviewer-camera-info.png) | 카메라 설치 정보 팝업 | 1.2.1 · 예시 데이터 |
-| [roadviewer-boundaries-probability.png](roadviewer-boundaries-probability.png) | 분석 패널 **차선·도로** 탭: 확률 모드 | 1.2.1 · 예시 데이터 |
-| [roadviewer-boundaries-distance.png](roadviewer-boundaries-distance.png) | 분석 패널 **차선·도로** 탭: y[0] 좌우 거리 모드 | 1.2.1 · 예시 데이터 |
+| [roadviewer-boundaries-probability.png](roadviewer-boundaries-probability.png) | 분석 패널 **차선·도로** 탭: 확률 모드 | 1.3.12 · 실제 주행 데이터(라이트: 낮 주행, 다크: 밤 주행 28초, 녹색 점선·주황 실선) |
+| [roadviewer-boundaries-distance.png](roadviewer-boundaries-distance.png) | 분석 패널 **차선·도로** 탭: y[0] 좌우 거리 모드 | 1.3.12 · 실제 주행 데이터(확률 모드와 같은 시각) |
 
 [메인 안내](../../README.md) · [사용 설명서](../../roadviewer/DOCS.md)

diff --git a/docs/device-api.en.md b/docs/device-api.en.md
@@ -21,7 +21,7 @@
 
 [한국어](device-api.md) · English
 
-Implementation reference: **Road Viewer 1.3.11**.
+Implementation reference: **Road Viewer 1.3.12**.
 
 This repository provides the Road Viewer server and web UI. Compatible device uploaders are maintained separately. Existing browser uploads and Home Assistant Ingress remain supported. One Gunicorn worker with multiple threads is required; do not add workers/replicas sharing this data directory.
 
@@ -299,8 +299,8 @@ An OK result verifies the tested API/storage paths, not real video or log-decodi
 For the real TLS/Nginx/Gunicorn boundary, use Docker:
 
 ```bash
-docker build -t roadviewer:1.3.11 ./roadviewer
-docker run --rm -v "$PWD/tests:/tests:ro" --entrypoint python roadviewer:1.3.11 /tests/test_device_tls.py
+docker build -t roadviewer:1.3.12 ./roadviewer
+docker run --rm -v "$PWD/tests:/tests:ro" --entrypoint python roadviewer:1.3.12 /tests/test_device_tls.py
 ```
 
 The client trusts a temporary test certificate. Server and client communicate inside the container, so host port publication and router changes are unnecessary. Building needs network access; this does not validate your real DNS/NAT setup.

diff --git a/roadviewer/CHANGELOG.en.md b/roadviewer/CHANGELOG.en.md
@@ -4,6 +4,11 @@
 
 These are the English release notes from 0.13.0 on. Earlier release entries remain in the [original Korean history](CHANGELOG.md); they describe behavior at their release date, not necessarily current behavior. See the [current user guide](DOCS.en.md) for present settings and policies.
 
+## 1.3.12
+
+- In the 차선·도로 (lanes/road) tab's y[0] distance mode, the 차선 1 / 차선 2 values no longer touch or overlap the lane line samples inside their cards: the sample's side keeps a wider inset, and lengths in this panel (lane y[0], road edges, lead distance) carry a small unit, leaving at least 5 px even at phone width.
+- The documentation's lanes/road captures were retaken with the current UI and real drive data, and the y[0] image now has its dark-mode version too.
+
 ## 1.3.11
 
 - Keyboard shortcuts on the replay page work again after clicking buttons, tabs or settings with the mouse. Space used to press the last clicked button again (frame step, overlay and so on) instead of playing, and the arrows switched tabs after a tab was clicked. Now a mouse click leaves the shortcuts on; only a control reached with Tab keeps its own keys.

diff --git a/roadviewer/CHANGELOG.md b/roadviewer/CHANGELOG.md
@@ -1,3 +1,8 @@
+## 1.3.12
+
+- 차선·도로 탭의 y[0] 거리 모드에서 차선 1·2 값이 카드 안의 차선 표시(실선·점선 조각)에 붙거나 겹치던 것을 고쳤습니다. 표시가 있는 쪽 여백을 넓혔고, 이 패널의 길이 값(차선 y[0], 로드엣지, 앞차 거리)은 단위 m를 작게 붙여 휴대폰 폭에서도 표시와 5px 이상 떨어집니다.
+- 문서의 차선·도로 캡처를 현재 화면과 실제 주행 데이터로 다시 찍고, y[0] 거리 이미지에도 다크 모드 이미지를 연결했습니다.
+
 ## 1.3.11
 
 - 재생 화면에서 마우스로 버튼·탭·설정 등을 누른 뒤 키보드 단축키가 먹지 않던 문제를 고쳤습니다. 이전에는 Space가 재생 대신 마지막에 누른 버튼(이전 프레임, 오버레이 등)을 다시 눌렀고, 탭을 누른 뒤의 방향키는 프레임 대신 탭을 바꿨습니다. 이제 마우스로 누른 뒤에는 단축키가 동작하고, Tab 키로 옮겨 간 경우에만 그 자리의 키 동작을 따릅니다.
